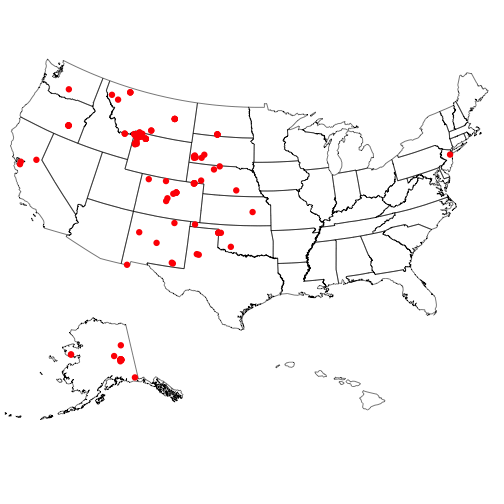
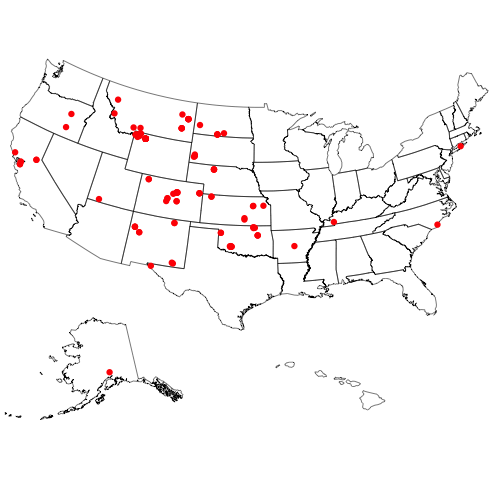
updated readme

diff --git a/README.md b/README.md
@@ -102,7 +102,7 @@ out$summary
 
 ```
 ##   total observation fossil specimen unknown centroid
-## 1  1437         137    164      897     239        1
+## 1  1320         181    162      738     239        1
 ```
 
 ##### map occurrences
@@ -182,16 +182,16 @@ bison_tax(query = "*bear")
 ## Source: local data frame [10 x 2]
 ## 
 ##          vernacularName    lc_vernacularName
-## 1  Louisiana black bear Louisiana black bear
-## 2          grizzly bear         grizzly bear
+## 1   American black bear  American black bear
+## 2    Asiatic black bear   Asiatic black bear
 ## 3     banded woollybear    banded woollybear
-## 4    Asiatic black bear   Asiatic black bear
-## 5           Kodiak bear          Kodiak bear
-## 6      black-ended bear     black-ended bear
-## 7   American black bear  American black bear
-## 8     yellow woollybear    yellow woollybear
-## 9            black bear           black bear
-## 10   yellow woolly bear   yellow woolly bear
+## 4            black bear           black bear
+## 5      black-ended bear     black-ended bear
+## 6            brown bear           brown bear
+## 7          grizzly bear         grizzly bear
+## 8           Kodiak bear          Kodiak bear
+## 9  Louisiana black bear Louisiana black bear
+## 10             Sun bear             Sun bear
 ## 
 ## $highlight
 ## NULL
@@ -209,22 +209,22 @@ bison_tax(query = "Helianthus*", method = "scientificName")
 
 ```
 ## $numFound
-## [1] 182
+## [1] 183
 ## 
 ## $names
 ## Source: local data frame [10 x 1]
 ## 
-##                       scientificName
-## 1                Helianthus parishii
-## 2              Helianthus floridanus
-## 3           Helianthus helianthoides
-## 4              Helianthus laciniatus
-## 5                 Helianthus glaucus
-## 6                         Helianthus
-## 7                  Helianthus niveus
-## 8             Helianthus divaricatus
-## 9             Helianthus arizonensis
-## 10 Helianthus divaricatus latifolius
+##                        scientificName
+## 1   Helianthus divaricatus latifolius
+## 2              Helianthus decapetalus
+## 3                 Helianthus ambiguus
+## 4                Helianthus luxurians
+## 5                Helianthus arenicola
+## 6               Helianthus atrorubens
+## 7              Helianthus tenuifolius
+## 8        Helianthus petiolaris phenax
+## 9  Helianthus angustifolius nuttallii
+## 10          Helianthus trachelifolius
 ## 
 ## $highlight
 ## NULL
@@ -251,57 +251,57 @@ bison_solr(scientificName = "Ursus americanus", state_code = "New Mexico", rows 
 ## [1] 5277
 ## 
 ## $points
-##      scientificName
-## 1  Ursus americanus
-## 2  Ursus americanus
-## 3  Ursus americanus
-## 4  Ursus americanus
-## 5  Ursus americanus
-## 6  Ursus americanus
-## 7  Ursus americanus
-## 8  Ursus americanus
-## 9  Ursus americanus
-## 10 Ursus americanus
-## 11 Ursus americanus
-## 12 Ursus americanus
-## 13 Ursus americanus
-## 14 Ursus americanus
-## 15 Ursus americanus
-## 16 Ursus americanus
-## 17 Ursus americanus
-## 18 Ursus americanus
-## 19 Ursus americanus
-## 20 Ursus americanus
-## 21 Ursus americanus
-## 22 Ursus americanus
-## 23 Ursus americanus
-## 24 Ursus americanus
-## 25 Ursus americanus
-## 26 Ursus americanus
-## 27 Ursus americanus
-## 28 Ursus americanus
-## 29 Ursus americanus
-## 30 Ursus americanus
-## 31 Ursus americanus
-## 32 Ursus americanus
-## 33 Ursus americanus
-## 34 Ursus americanus
-## 35 Ursus americanus
-## 36 Ursus americanus
-## 37 Ursus americanus
-## 38 Ursus americanus
-## 39 Ursus americanus
-## 40 Ursus americanus
-## 41 Ursus americanus
-## 42 Ursus americanus
-## 43 Ursus americanus
-## 44 Ursus americanus
-## 45 Ursus americanus
-## 46 Ursus americanus
-## 47 Ursus americanus
-## 48 Ursus americanus
-## 49 Ursus americanus
-## 50 Ursus americanus
+##      scientificName         eventDate
+## 1  Ursus americanus              <NA>
+## 2  Ursus americanus 1916-06-07T00:00Z
+## 3  Ursus americanus 1998-09-02T00:00Z
+## 4  Ursus americanus              <NA>
+## 5  Ursus americanus              <NA>
+## 6  Ursus americanus              <NA>
+## 7  Ursus americanus              <NA>
+## 8  Ursus americanus 1916-11-27T00:00Z
+## 9  Ursus americanus 1958-12-14T00:00Z
+## 10 Ursus americanus              <NA>
+## 11 Ursus americanus 1976-06-14T00:00Z
+## 12 Ursus americanus              <NA>
+## 13 Ursus americanus 1916-09-12T00:00Z
+## 14 Ursus americanus 1956-06-20T00:00Z
+## 15 Ursus americanus 1999-05-12T00:00Z
+## 16 Ursus americanus              <NA>
+## 17 Ursus americanus 1980-08-02T00:00Z
+## 18 Ursus americanus              <NA>
+## 19 Ursus americanus              <NA>
+## 20 Ursus americanus 1971-10-23T00:00Z
+## 21 Ursus americanus              <NA>
+## 22 Ursus americanus 1916-09-12T00:00Z
+## 23 Ursus americanus 1917-07-09T00:00Z
+## 24 Ursus americanus 1995-08-08T00:00Z
+## 25 Ursus americanus              <NA>
+## 26 Ursus americanus 1916-07-18T00:00Z
+## 27 Ursus americanus 1911-10-17T00:00Z
+## 28 Ursus americanus              <NA>
+## 29 Ursus americanus 1995-05-07T00:00Z
+## 30 Ursus americanus 1951-11-01T00:00Z
+## 31 Ursus americanus 1898-05-13T00:00Z
+## 32 Ursus americanus 1927-10-26T00:00Z
+## 33 Ursus americanus 1883-11-15T00:00Z
+## 34 Ursus americanus 1999-05-21T00:00Z
+## 35 Ursus americanus 1996-06-12T00:00Z
+## 36 Ursus americanus 1977-09-03T00:00Z
+## 37 Ursus americanus 2009-07-02T00:00Z
+## 38 Ursus americanus              <NA>
+## 39 Ursus americanus 1997-05-26T00:00Z
+## 40 Ursus americanus 1995-06-04T00:00Z
+## 41 Ursus americanus              <NA>
+## 42 Ursus americanus 1903-06-20T00:00Z
+## 43 Ursus americanus 1958-09-11T00:00Z
+## 44 Ursus americanus 2012-05-20T00:00Z
+## 45 Ursus americanus 1905-04-26T00:00Z
+## 46 Ursus americanus 1910-06-29T00:00Z
+## 47 Ursus americanus 1894-01-18T00:00Z
+## 48 Ursus americanus 2014-05-29T02:58Z
+## 49 Ursus americanus 1901-07-10T00:00Z
+## 50 Ursus americanus 1918-05-17T00:00Z
 ## 
 ## $highlight
 ## NULL
@@ -350,4 +350,4 @@ bisonmap(out)
 
 This package is part of a richer suite called [SPOCC Species Occurrence Data](https://github.com/ropensci/spocc), along with several other packages, that provide access to occurrence records from multiple databases. We recommend using SPOCC as the primary R interface to rbison unless your needs are limited to this single source.
 
-[![ropensci footer](http://ropensci.org/public_images/github_footer.png)](http://ropensci.org)
+[![ropensci_footer](http://ropensci.org/public_images/github_footer.png)](http://ropensci.org)
